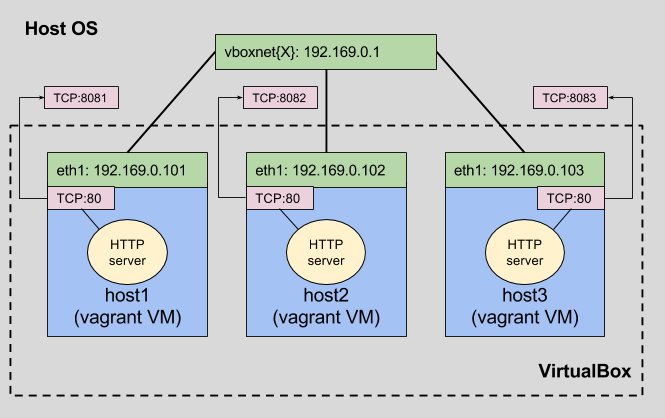
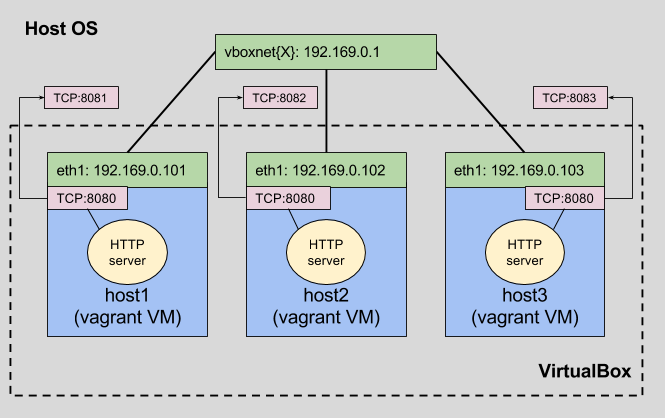
Add example and remarks

diff --git a/vagrant-multi-host/README.md b/vagrant-multi-host/README.md
@@ -1,3 +1,5 @@
+
+
 ## Vagrant Plugins
 
 1. [vagrant-git](https://github.com/Learnosity/vagrant-git) for managing git repositories
@@ -89,9 +91,40 @@ Vagrant.configure(2) do |config|
 end
 ```
 
-### Example
+### Referencing particular machines
+
+* `vagrant up` starts the whole cluster (unless you set `autostart: false` to one of the machines like: `config.vm.define "db_follower", autostart: false`)
+
+* `vagrant up NAME` brings up only the specified machine
+
+* `vagrant up/ssh/destroy/save/[OTHER] NAME` perform the command against the given machine
+
+
+
+## Example
 
 Run `vagrant up`. You will get three VMs with HTTP server running on each of them. Their 80 ports are redirected to 8081, 8082 and 8083 respectively:
 
 ![alt](img/example.png)
+
+Start python SimpleHTTPServer in the /home/vagrant/www direcotry. It contains appropriate `index.html` file:
+
+```bash
+vagrant ssh td-host1
+python -m SimpleHTTPServer 8080
+```
+The HTTP server is accessible in two ways on each host:
+
+* `td-host1`
+   * http://192.169.0.1:8081/ (through port mapping)
+   * http://192.169.0.101:8080/ (through private network)
+* `td-host2`
+   * http://192.169.0.1:8082/ (through port mapping)
+   * http://192.169.0.102:8080/ (through private network)
+
+## Remarks
+
+* duplicated provisioning - for example fetch the same packages for each VM (solvable via plugins)
+* downloading the same docker images for the VMs (solvable via sending docker images via ssh)
+* by using linked-clones differential disks are used which dramatically speeds-up the process of provisioning a VM
 
